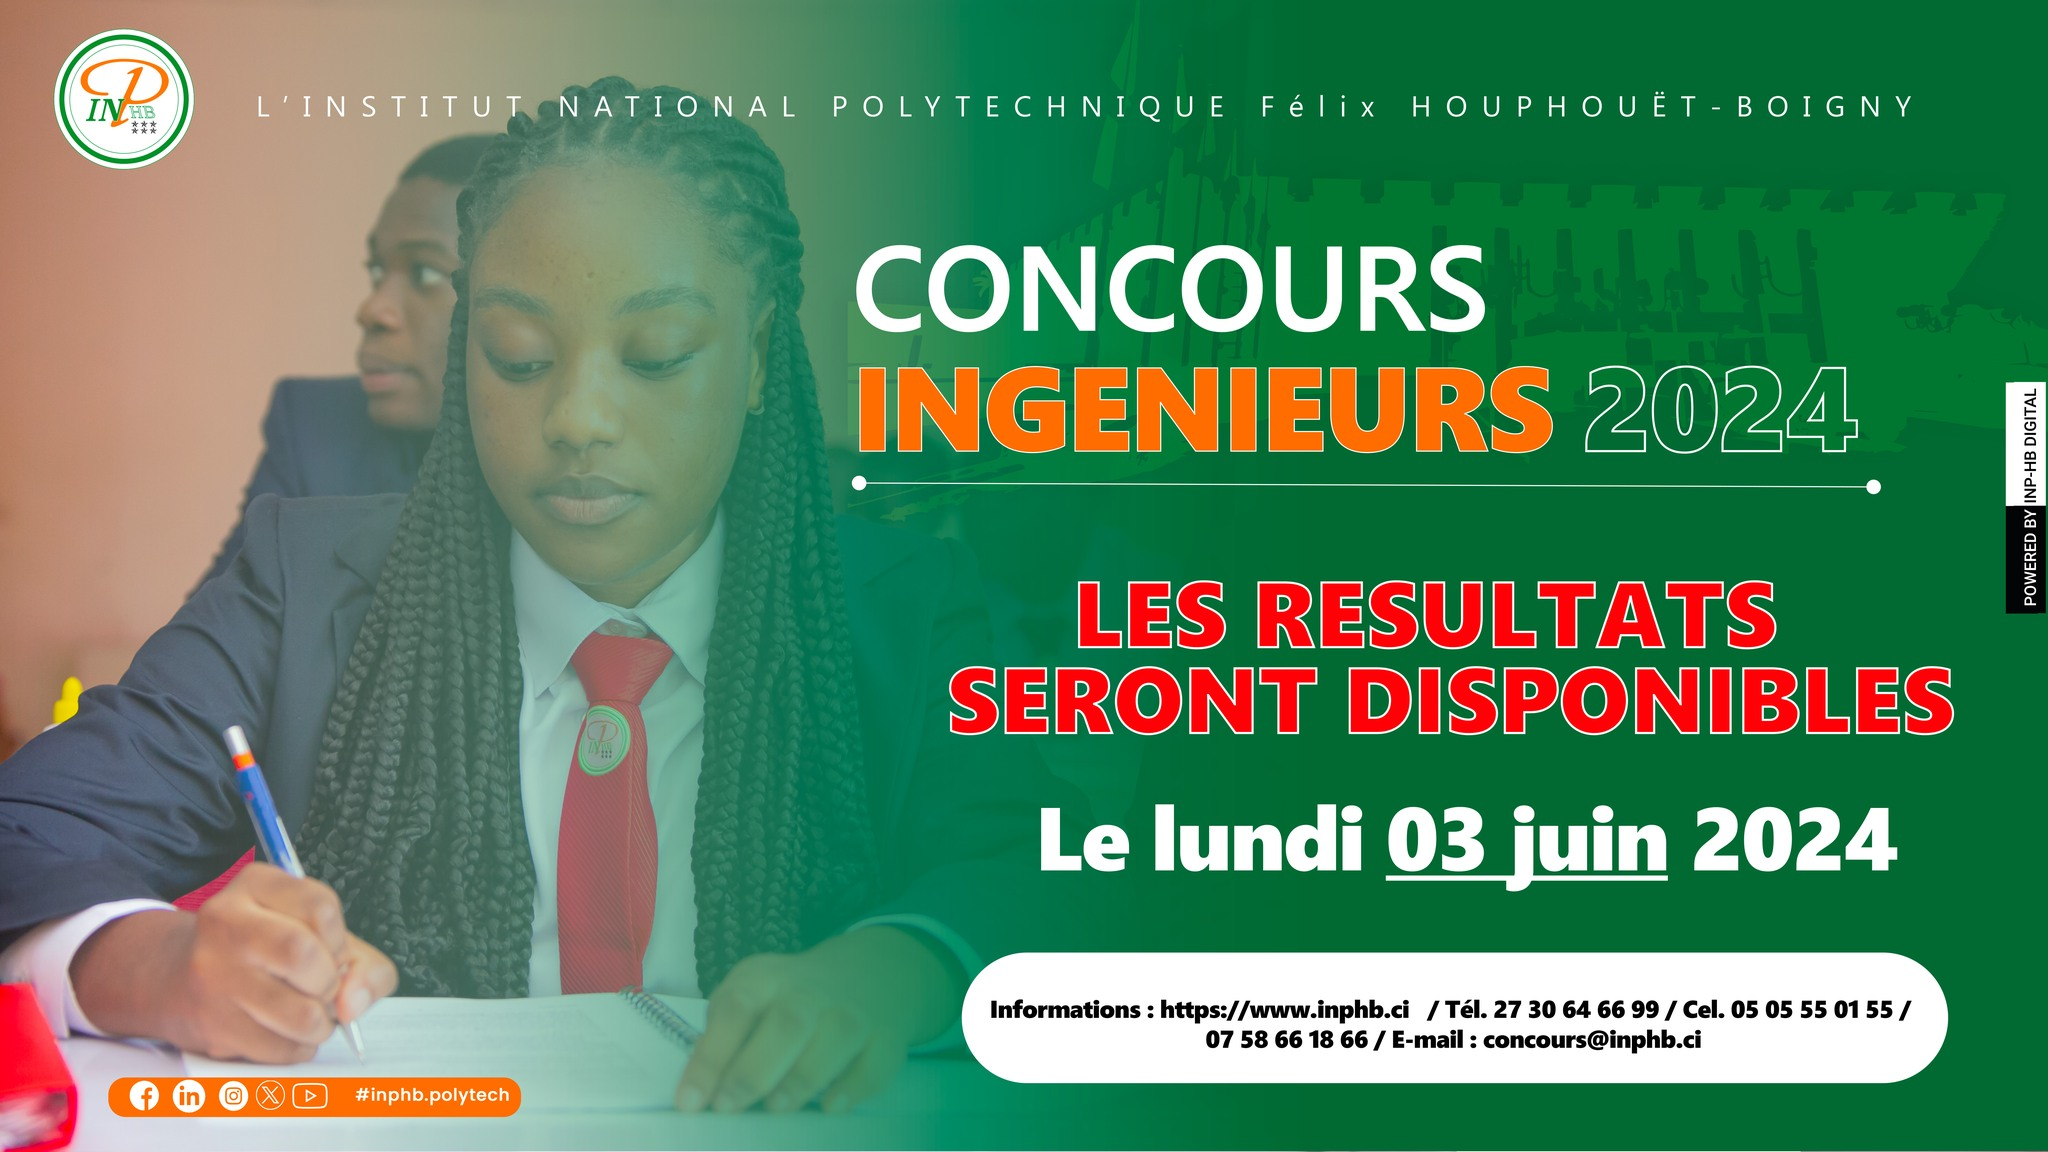
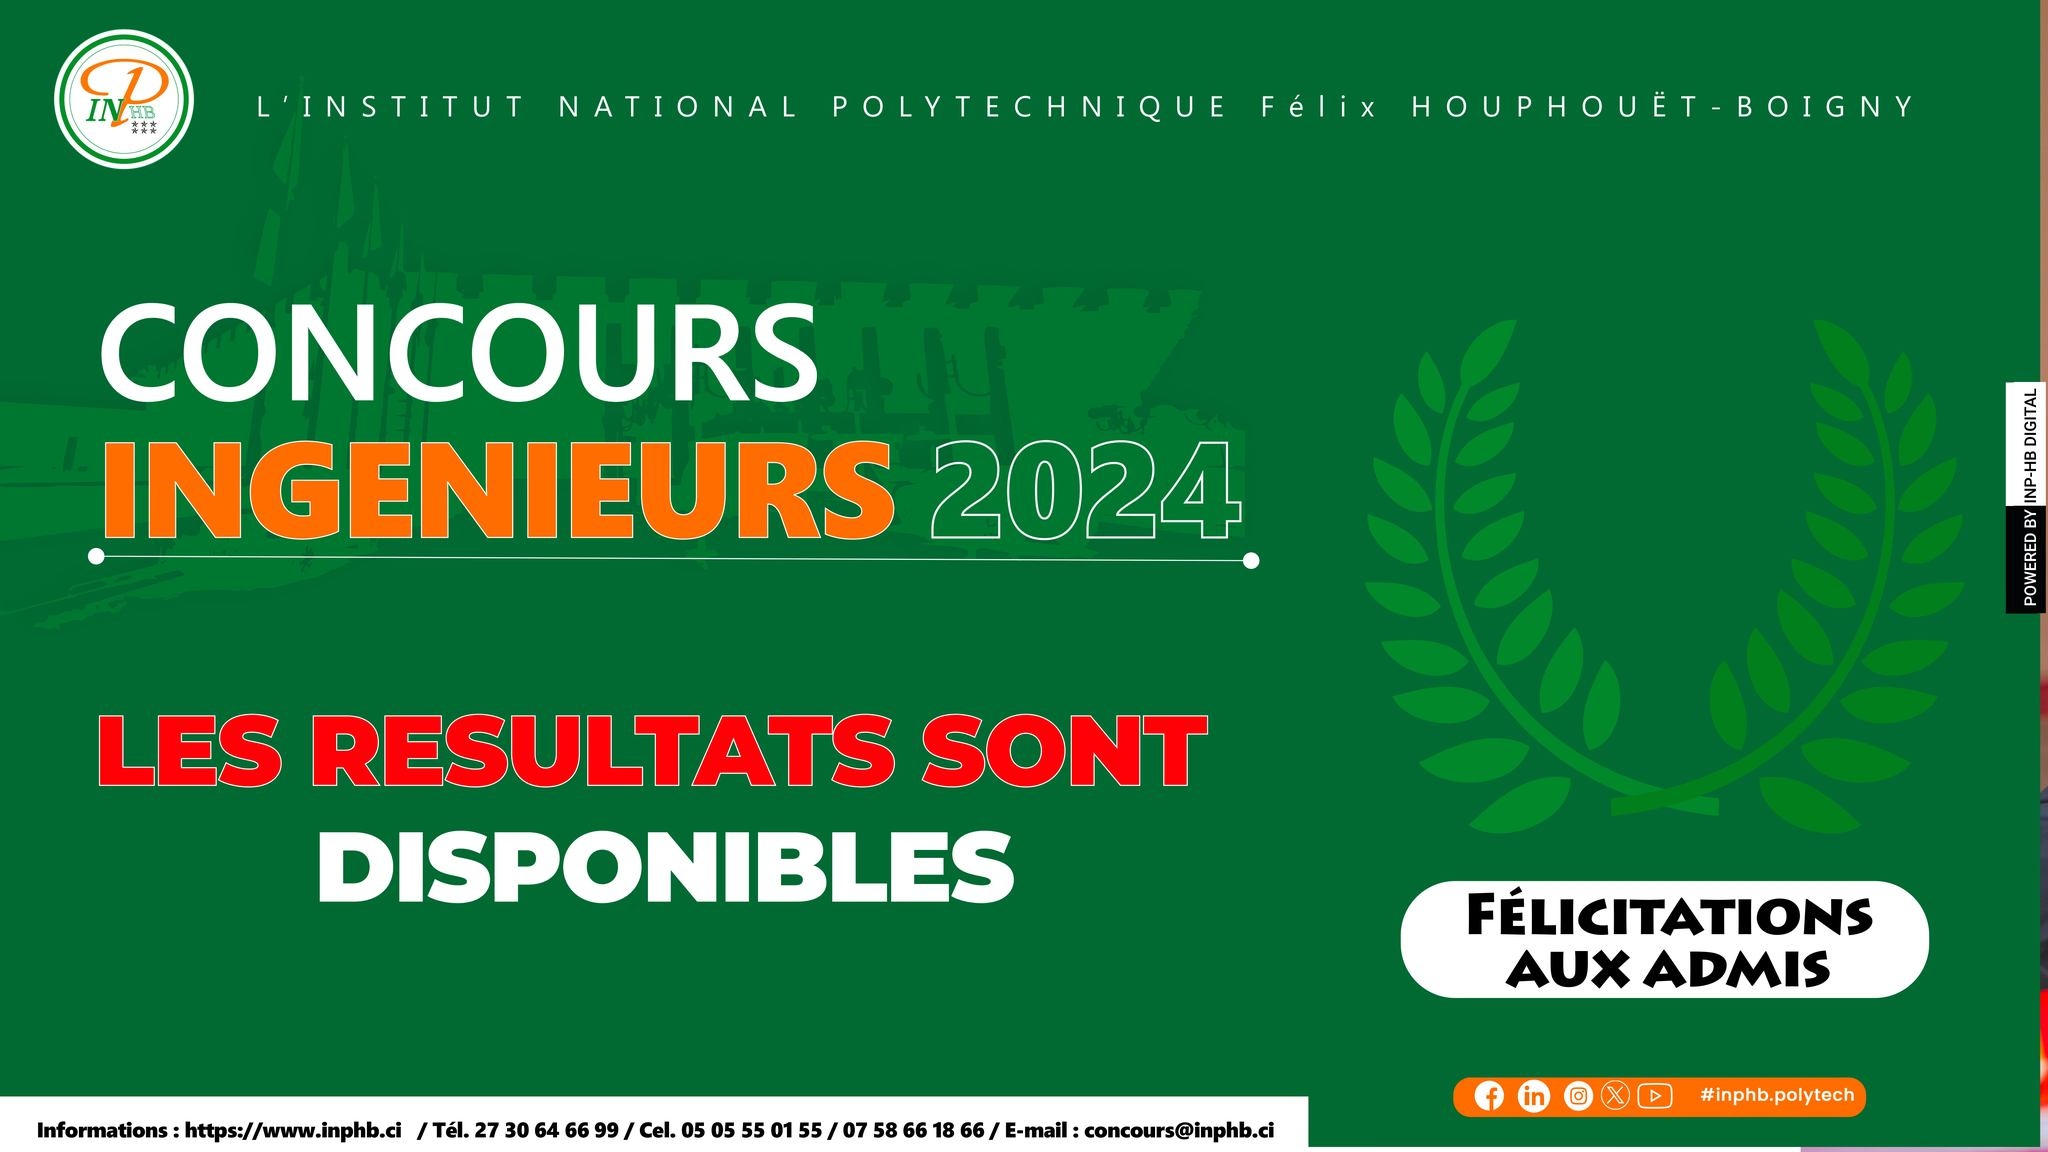
dd

diff --git a/scripts/news_info.js b/scripts/news_info.js
@@ -11,8 +11,8 @@ news =[
         "nom":"résulats du concours d'entrée en cycle ingénieur 2024",
         "date":"03/06/2024",
         "type": "Concours",
-        "information":"Les résultats du concours d'entrée en cycle ingénieurs de l'INP-HB communement appelé Gbinzin seront disponibles le lundi 03 juin 2024. Après des épreuves écrites rigoureuses , les candidats pourront découvrir leurs resultats .",
-        "lien":"https://web.facebook.com/inphb.polytech",
+        "information":"Les résultats du concours d'entrée en cycle ingénieurs de l'INP-HB communement appelé Gbinzin sont disponibles sur le site de l'INP-HB. Après des épreuves écrites rigoureuses , les candidats découvrent enfin leurs resultats .",
+        "lien":"https://ingenieurs.concours.inphb.app/",
         "image":"gbinzin.jpg"
     }
 ]
